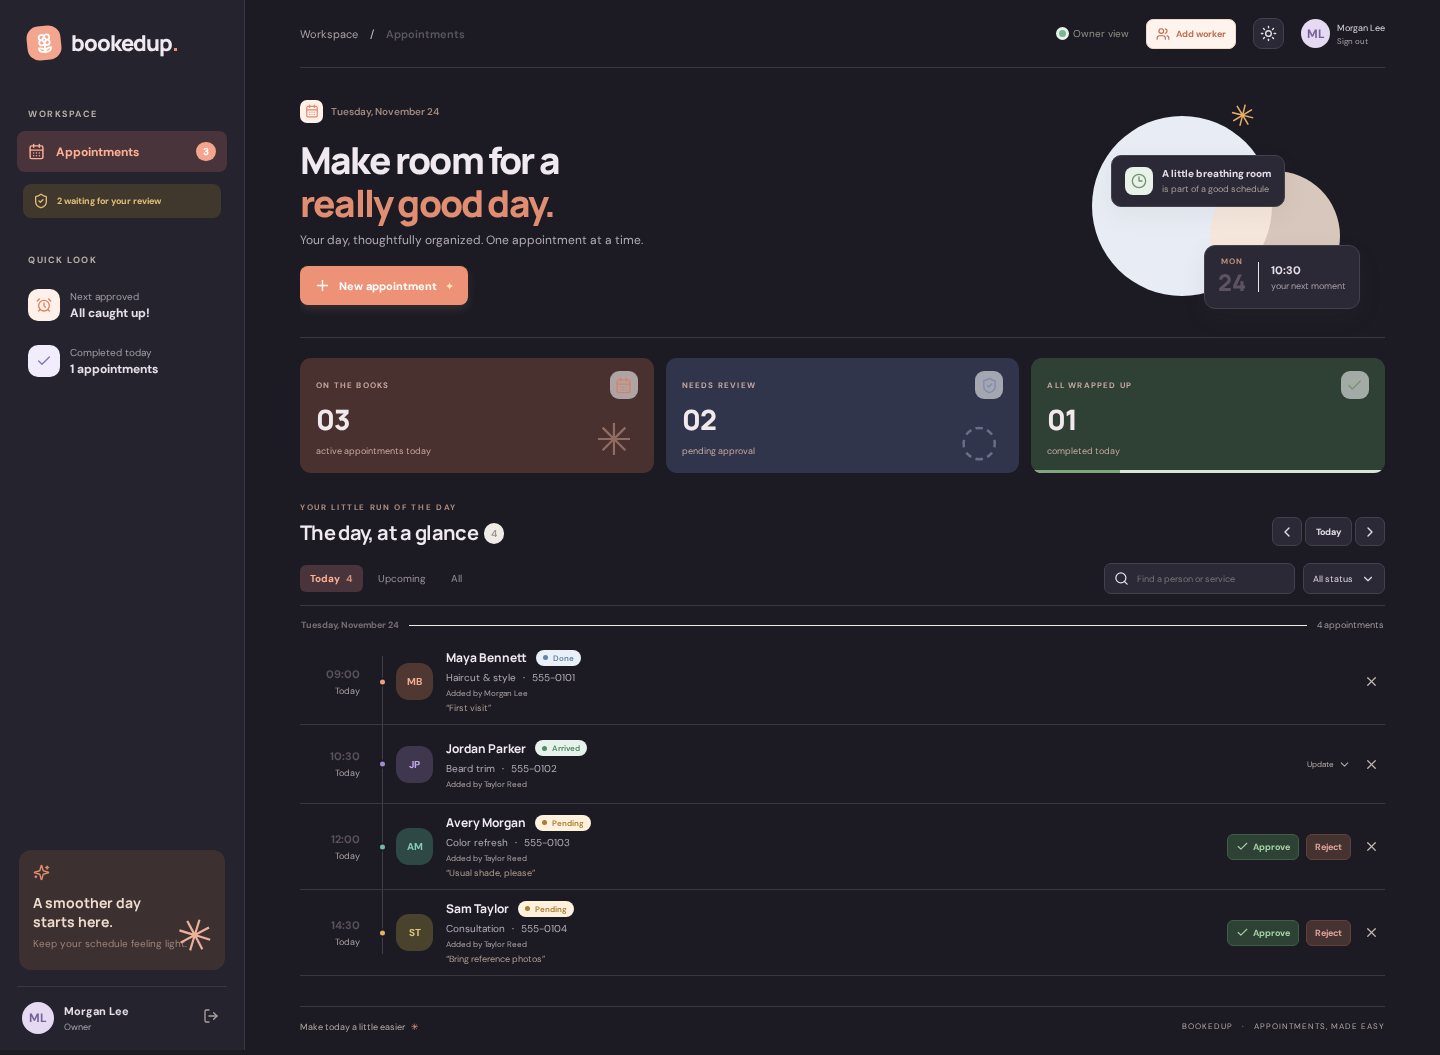
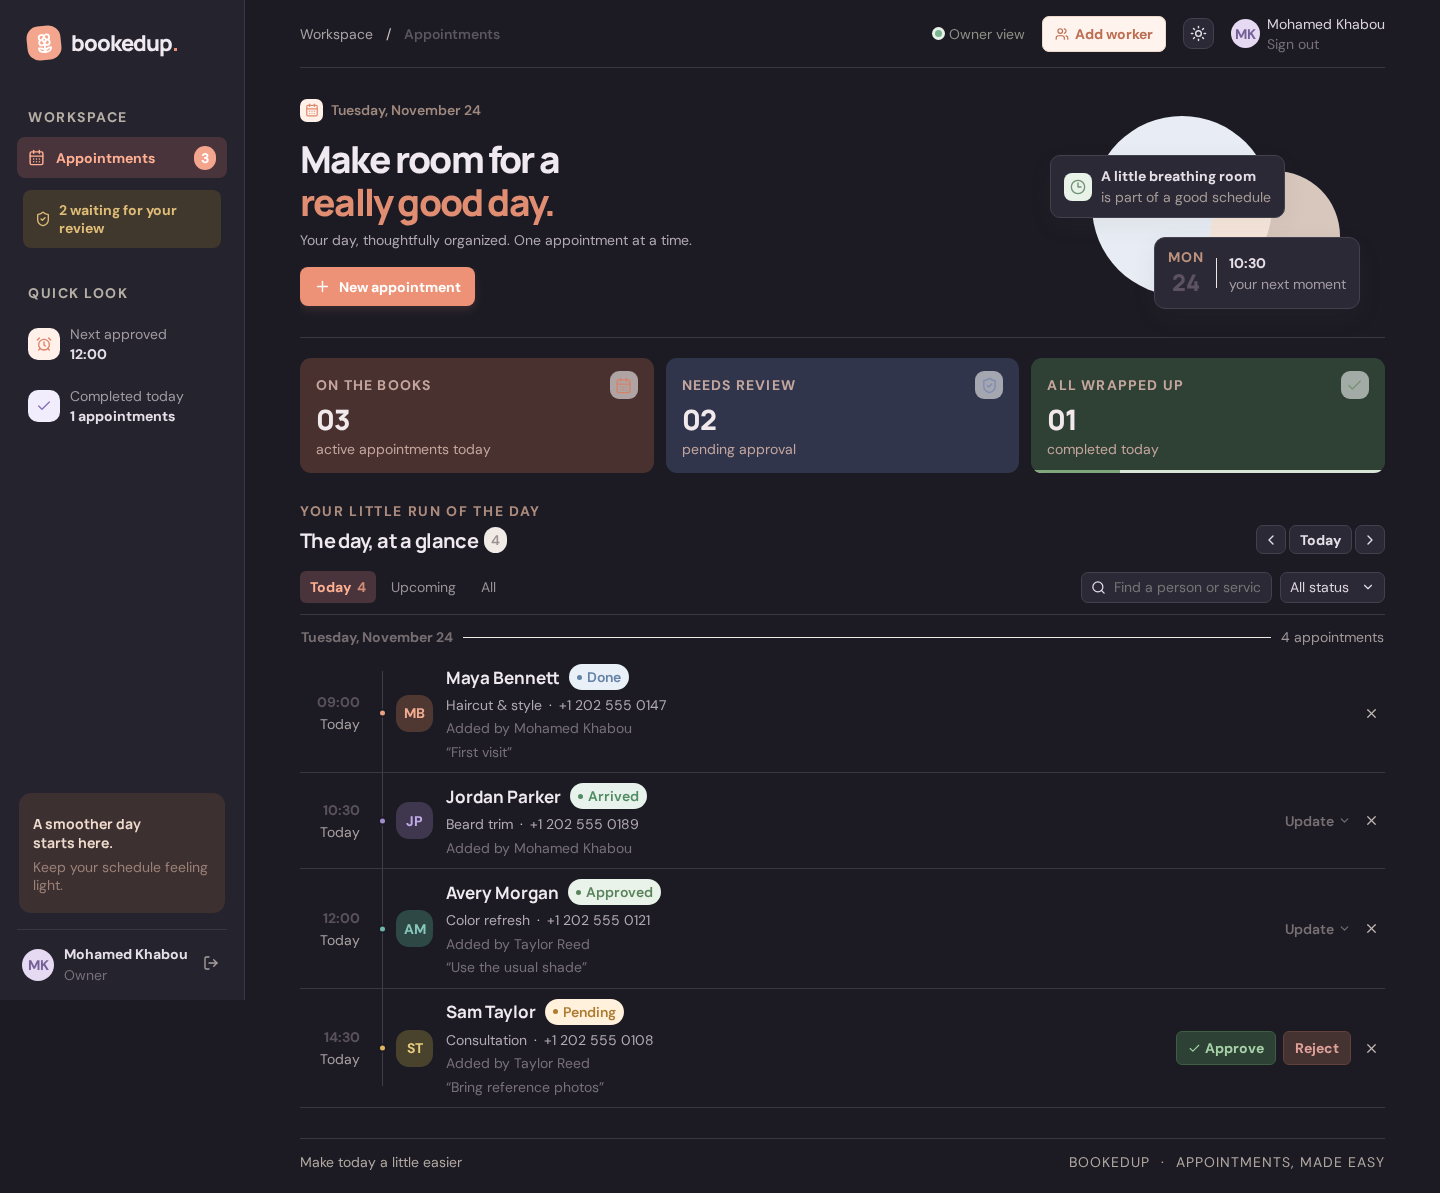
README

diff --git a/README.md b/README.md
@@ -6,7 +6,7 @@
 
 A role-aware scheduling workspace for independent service businesses, built with the MERN stack.
 
-**[Live demo](#)** · [Explore the screenshots](#screenshots) · [Run locally](#run-locally)
+**[Live demo](https://bookedup-two.vercel.app/)** · [Explore the screenshots](#screenshots) · [Run locally](#run-it-locally-with-git-bash)
 
 > **Owner-led approvals** · **Worker requests** · **A colorful, responsive schedule**
 
@@ -51,6 +51,15 @@ The screenshots below show each distinct screen and role-specific workflow in th
 
 ### Owner books a confirmed appointment
 ![Owner appointment form](./screenshots/owner-add-appointment.png)
+
+## Try the live demo
+
+Open [BookedUp](https://bookedup-two.vercel.app/) and sign in with the demo owner account:
+
+- **Email:** [mohamedkhabou@example.com](mailto:mohamedkhabou@example.com)
+- **Password:** `MohamedKhabou123`
+
+From the owner workspace, use **Add worker** to create worker accounts and try the worker workflow: sign in as a worker, submit an appointment for review, then return as the owner to approve or reject it. These are shared demo credentials and a shared demo workspace, so changes may be visible to other visitors. Do not reuse this password for any personal account.
 
 ## Roles and workflow
 
